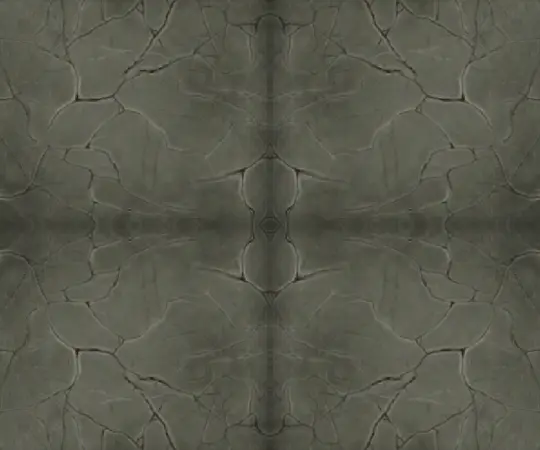
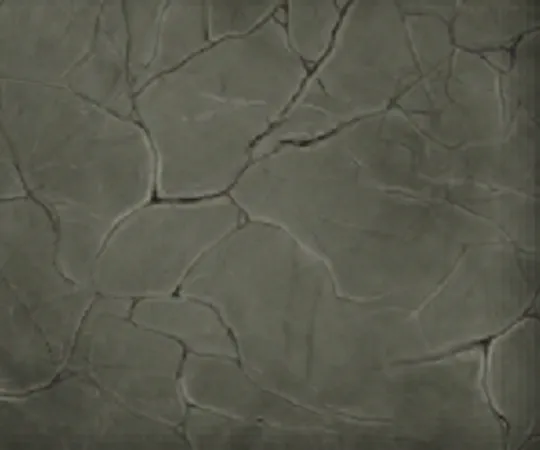
Fixa tooltipens bakgrund: stenytan fyller hela kortet, ingen spegelskarv

diff --git a/web/src/index.css b/web/src/index.css
@@ -249,6 +249,8 @@ textarea { resize: vertical; }
   background: #4d4c46;
   border-radius: 2px;
   overflow: hidden;
+  display: flex;
+  flex-direction: column;
 }
 .tooltip__title {
   font-family: var(--font-title);
@@ -264,6 +266,7 @@ textarea { resize: vertical; }
   text-shadow: 0 1px 2px #000;
 }
 .tooltip__body {
+  flex: 1;
   padding: 0.6rem 0.9rem 0.8rem;
   color: var(--stone-text);
   font-size: 1.02rem;
@@ -271,7 +274,7 @@ textarea { resize: vertical; }
   text-shadow: 0 1px 1px rgba(0, 0, 0, 0.75);
   background:
     linear-gradient(rgba(60, 60, 54, 0.35), rgba(40, 40, 36, 0.45)),
-    url('/bilder/stone.webp') 0 0 / 540px auto repeat;
+    url('/bilder/stone.webp') center / cover no-repeat;
 }
 .tooltip__ac { font-weight: 600; }
 .tooltip__stat { margin-right: 1.1em; white-space: nowrap; }
